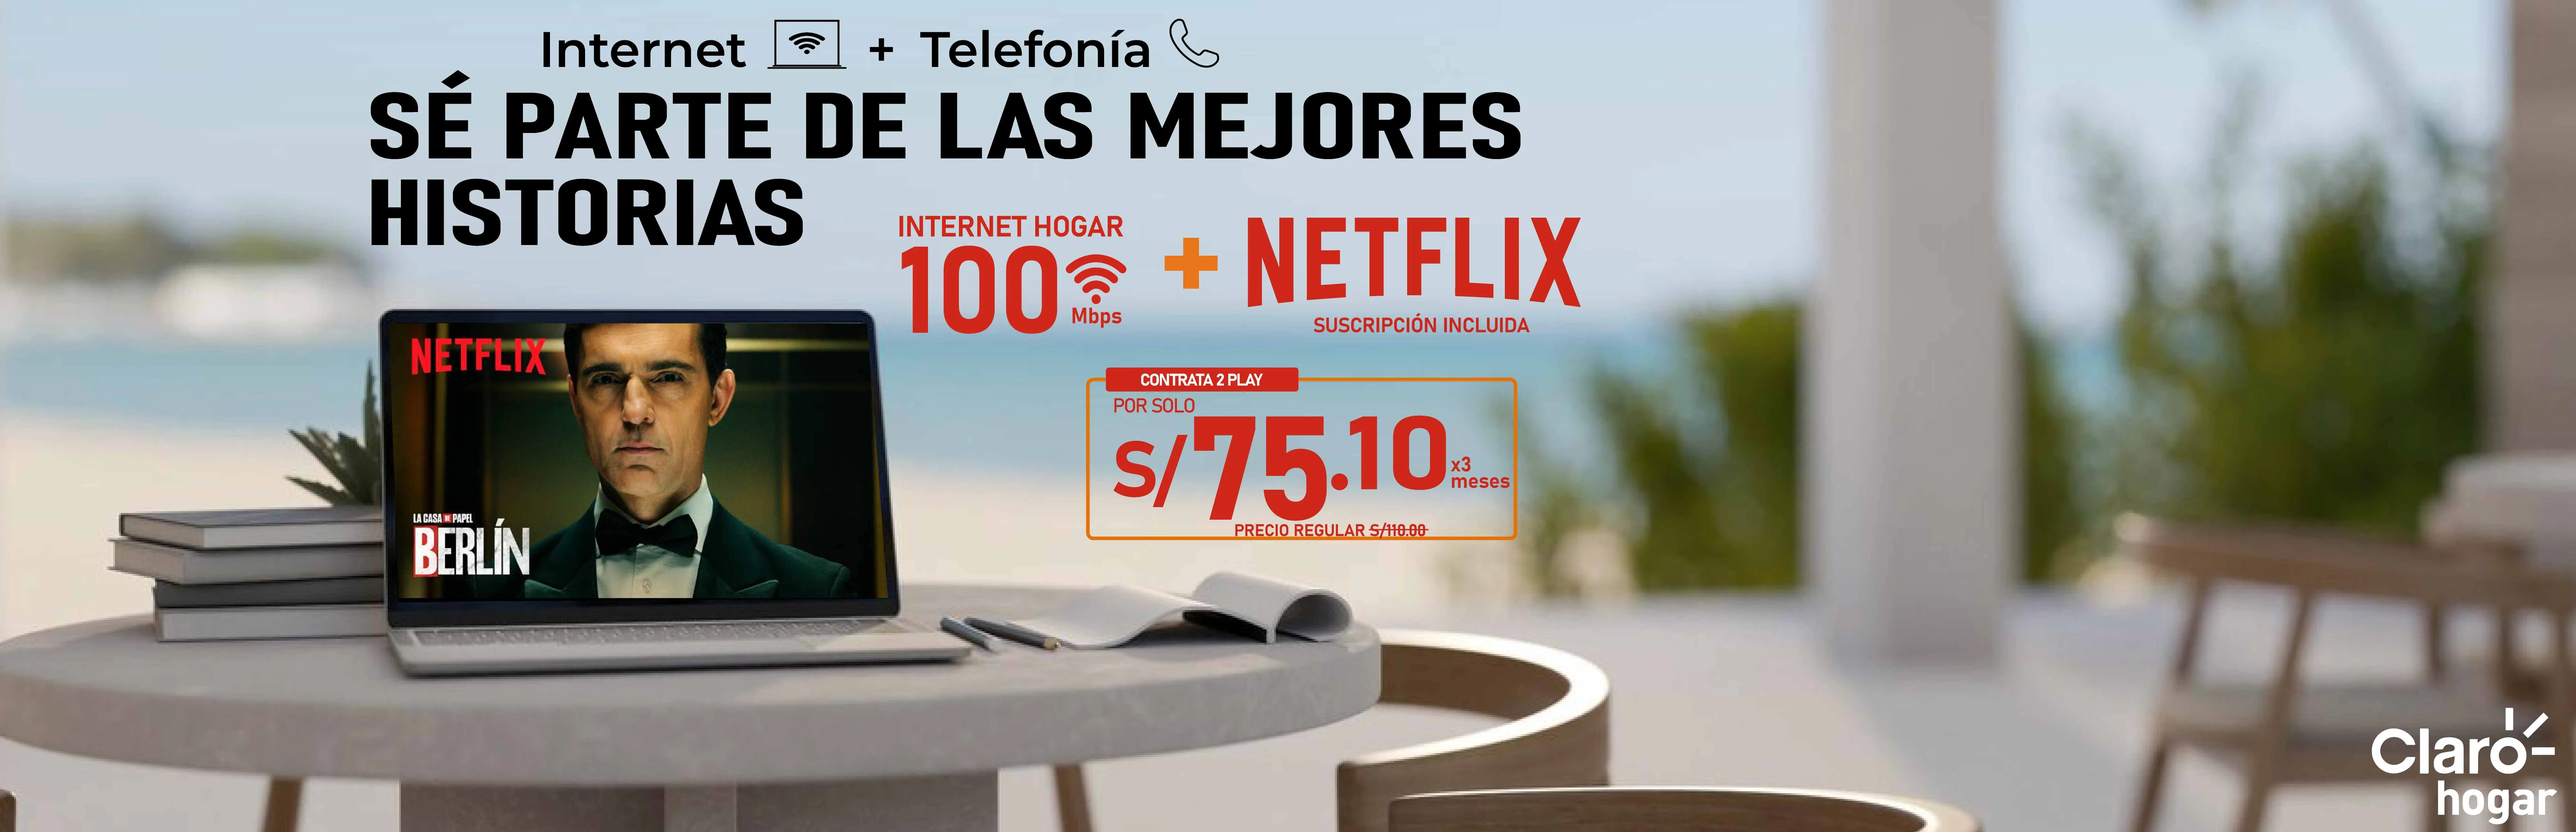
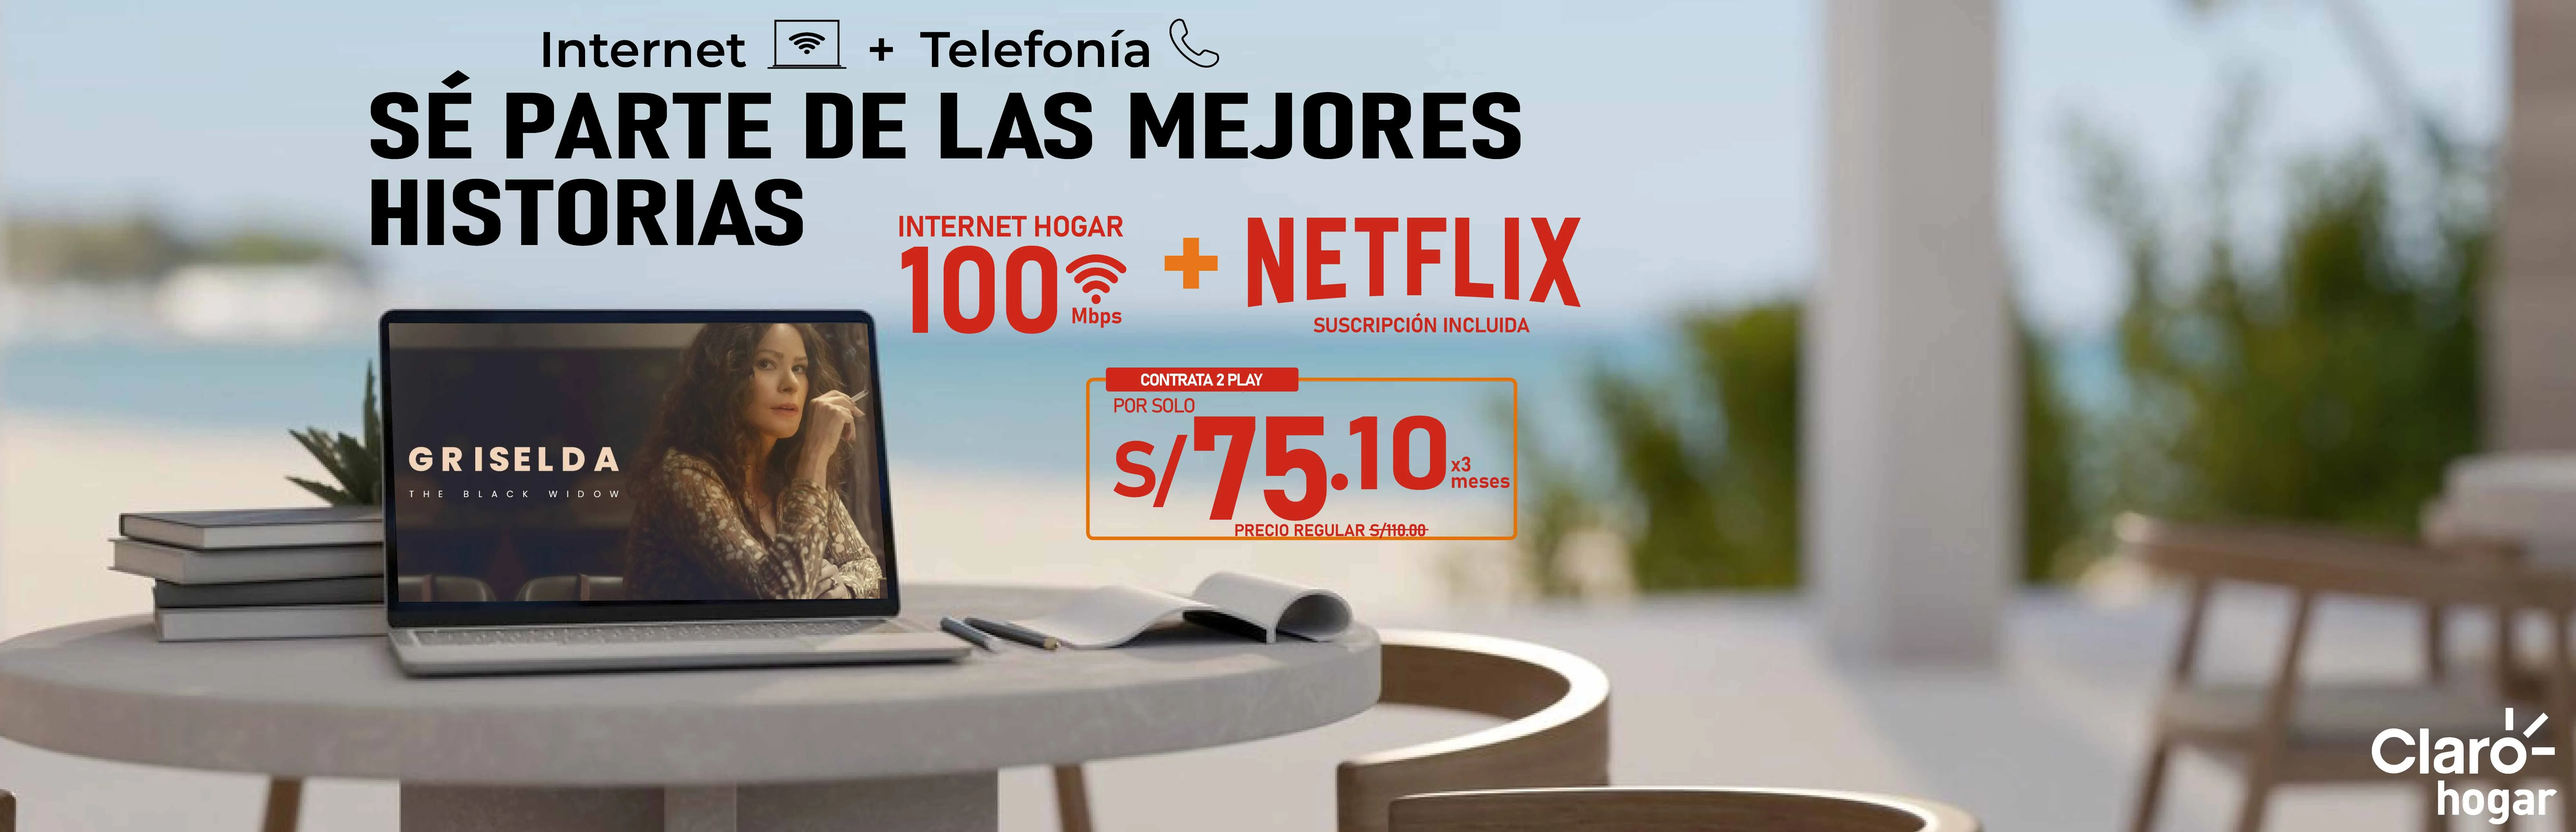
update web

Changed region(s): [[0.125, 0.3715, 0.3438, 0.743]]

diff --git a/src/components/PagesTsx/HomeFija.tsx b/src/components/PagesTsx/HomeFija.tsx
@@ -30,7 +30,7 @@ const OPTIONS: EmblaOptionsType = {
   slidesToScroll: 'auto',
   containScroll: 'trimSnaps'
 };
-const SLIDE_COUNT = 6;
+const SLIDE_COUNT = 7;
 const SLIDES: number[] = Array.from(Array(SLIDE_COUNT).keys());
 const STYLES_MOBILE: CSSProperties = {};
 const STYLES_DESKTOP: CSSProperties = {};
@@ -41,6 +41,7 @@ const imagesMobile = [
   `${BannerMobile5.src}`,
   `${BannerMobile6.src}`,
   `${BannerMobile2.src}`,
+  `${BannerMobile9.src}`,
   `${BannerMobile10.src}`,
 ];
 
@@ -50,6 +51,7 @@ const imagesDesktop= [
   `${BannerDesktop5.src}`,
   `${BannerDesktop6.src}`,
   `${BannerDesktop2.src}`,
+  `${BannerDesktop9.src}`,
   `${BannerDesktop10.src}`,
 ];
 
@@ -125,7 +127,7 @@ const ItemsPlanes: ItemsArray = [
         plan: '',
         classNamePlan: 'text-base',
         extraPlan: <div className="flex flex-col items-center justify-center">
-          <span className="text-[#ee122c] text-xl font-bold uppercase">1play 400 Mbps</span>
+          <span className="text-[#ee122c] text-3xl font-bold uppercase">1play 400 Mbps</span>
         </div>,
         data: [
           {
@@ -149,7 +151,7 @@ const ItemsPlanes: ItemsArray = [
         plan: '',
         classNamePlan: 'text-base',
         extraPlan: <div className="flex flex-col items-center justify-center">
-          <span className="text-[#ee122c] text-xl font-bold uppercase">1play 600 Mbps</span>
+          <span className="text-[#ee122c] text-3xl font-bold uppercase">1play 600 Mbps</span>
         </div>,
         data: [
           {
@@ -173,7 +175,7 @@ const ItemsPlanes: ItemsArray = [
         plan: '',
         classNamePlan: 'text-xl',
         extraPlan: <div className="flex flex-col items-center justify-center">
-          <span className="text-[#ee122c] text-xl font-bold uppercase">1play 1000 Mbps</span>
+          <span className="text-[#ee122c] text-3xl font-bold uppercase">1play 1000 Mbps</span>
         </div>,
         data: [
           {
@@ -193,7 +195,7 @@ const ItemsPlanes: ItemsArray = [
         plan: '',
         classNamePlan: 'text-xl',
         extraPlan: <div className="flex flex-col items-center justify-center">
-          <span className="text-[#ee122c] text-xl font-bold uppercase">1play 1500 Mbps</span>
+          <span className="text-[#ee122c] text-3xl font-bold uppercase">1play 1500 Mbps</span>
         </div>,
         data: [
           {
@@ -234,7 +236,7 @@ const ItemsPlanes: ItemsArray = [
             strong: '300Mbps'
           },
           {
-            description: 'Llamadas Ilimitadas a Teléfonos Fijos y Móviles de Claro + 100 min nivel nacional.',
+            description: 'MINUTOS ILIMITADOS a fijos y móviles de Claro Perú + 1000 MINUTOS para llamar a teléfonos fijos y móviles de otros operadores a nivel nacional.',
           },
         ]
       },
@@ -262,7 +264,7 @@ const ItemsPlanes: ItemsArray = [
             strong: '500Mbps'
           },
           {
-            description: 'Llamadas Ilimitadas a Teléfonos Fijos y Móviles de Claro + 100 min nivel nacional.',
+            description: 'MINUTOS ILIMITADOS a fijos y móviles de Claro Perú + 1000 MINUTOS para llamar a teléfonos fijos y móviles de otros operadores a nivel nacional.',
           },
         ]
       },
@@ -291,7 +293,7 @@ const ItemsPlanes: ItemsArray = [
             strong: '800Mbps'
           },
           {
-            description: 'Llamadas Ilimitadas a Teléfonos Fijos y Móviles de Claro + 100 min nivel nacional.',
+            description: 'MINUTOS ILIMITADOS a fijos y móviles de Claro Perú + 1000 MINUTOS para llamar a teléfonos fijos y móviles de otros operadores a nivel nacional.',
           },
         ]
       },
@@ -319,7 +321,7 @@ const ItemsPlanes: ItemsArray = [
             strong: '1000Mbps'
           },
           {
-            description: 'Llamadas Ilimitadas a Teléfonos Fijos y Móviles de Claro + 100 min nivel nacional.',
+            description: 'MINUTOS ILIMITADOS a fijos y móviles de Claro Perú + 1000 MINUTOS para llamar a teléfonos fijos y móviles de otros operadores a nivel nacional.',
           },
         ]
       },
@@ -343,7 +345,7 @@ const ItemsPlanes: ItemsArray = [
             strong: '1000Mbps'
           },
           {
-            description: 'Llamadas Ilimitadas a Teléfonos Fijos y Móviles de Claro + 100 min nivel nacional.',
+            description: 'MINUTOS ILIMITADOS a fijos y móviles de Claro Perú + 1000 MINUTOS para llamar a teléfonos fijos y móviles de otros operadores a nivel nacional.',
           },
         ]
       },
@@ -367,7 +369,7 @@ const ItemsPlanes: ItemsArray = [
             strong: '1500Mbps'
           },
           {
-            description: 'Llamadas Ilimitadas a Teléfonos Fijos y Móviles de Claro + 100 min nivel nacional.',
+            description: 'MINUTOS ILIMITADOS a fijos y móviles de Claro Perú + 1000 MINUTOS para llamar a teléfonos fijos y móviles de otros operadores a nivel nacional.',
           },
         ]
       },
@@ -575,7 +577,7 @@ const ItemsPlanes: ItemsArray = [
             description: 'Incluye Claro TV Avanzado con 111 canales en HD.',
           },
           {
-            description: 'Llamadas Ilimitadas a Teléfonos Fijos y Móviles de Claro + 100 min nivel nacional.',
+            description: 'MINUTOS ILIMITADOS a fijos y móviles de Claro Perú + 1000 MINUTOS para llamar a teléfonos fijos y móviles de otros operadores a nivel nacional.',
           },
         ]
       },
@@ -605,7 +607,7 @@ const ItemsPlanes: ItemsArray = [
             description: 'Incluye Claro TV Avanzado con 111 canales en HD.',
           },
           {
-            description: 'Llamadas Ilimitadas a Teléfonos Fijos y Móviles de Claro + 100 min nivel nacional.',
+            description: 'MINUTOS ILIMITADOS a fijos y móviles de Claro Perú + 1000 MINUTOS para llamar a teléfonos fijos y móviles de otros operadores a nivel nacional',
           },
         ]
       },
@@ -635,7 +637,7 @@ const ItemsPlanes: ItemsArray = [
             description: 'Incluye Claro TV Avanzado con 111 canales en HD.',
           },
           {
-            description: 'Llamadas Ilimitadas a Teléfonos Fijos y Móviles de Claro + 100 min nivel nacional.',
+            description: 'MINUTOS ILIMITADOS a fijos y móviles de Claro Perú + 1000 MINUTOS para llamar a teléfonos fijos y móviles de otros operadores a nivel nacional.',
           },
         ]
       },
@@ -666,7 +668,7 @@ const ItemsPlanes: ItemsArray = [
             description: 'Incluye Claro TV Avanzado con 111 canales en HD.',
           },
           {
-            description: 'Llamadas Ilimitadas a Teléfonos Fijos y Móviles de Claro + 100 min nivel nacional.',
+            description: 'MINUTOS ILIMITADOS a fijos y móviles de Claro Perú + 1000 MINUTOS para llamar a teléfonos fijos y móviles de otros operadores a nivel nacional.',
           },
         ]
       },
@@ -692,7 +694,7 @@ const ItemsPlanes: ItemsArray = [
             description: 'Incluye Claro TV Avanzado con 111 canales en HD.',
           },
           {
-            description: 'Llamadas Ilimitadas a Teléfonos Fijos y Móviles de Claro + 100 min nivel nacional.',
+            description: 'MINUTOS ILIMITADOS a fijos y móviles de Claro Perú + 1000 MINUTOS para llamar a teléfonos fijos y móviles de otros operadores a nivel nacional.',
           },
         ]
       },
@@ -705,7 +707,6 @@ const ItemsPlanes: ItemsArray = [
         dscto: '',
         promo: 'Precio Regular',
         price: '265',
-        regular: 'Precio Regular S/484',
         plan: '',
         classNamePlan: 'text-xl',
         extraPlan: <div className="flex flex-col items-center justify-center">
@@ -720,7 +721,7 @@ const ItemsPlanes: ItemsArray = [
             description: 'Incluye Claro TV Avanzado con 111 canales en HD.',
           },
           {
-            description: 'Llamadas Ilimitadas a Teléfonos Fijos y Móviles de Claro + 100 min nivel nacional.',
+            description: 'MINUTOS ILIMITADOS a fijos y móviles de Claro Perú + 1000 MINUTOS para llamar a teléfonos fijos y móviles de otros operadores a nivel nacional',
           },
         ]
       },

diff --git a/src/components/Form/Form.tsx b/src/components/Form/Form.tsx
@@ -1,6 +1,6 @@
 import axios from "axios";
 import type { FormProps } from "../../interfaces/Form.props";
-import  { type ChangeEvent, type FC, useState } from "react";
+import  { type ChangeEvent, type FC, useState, useEffect } from "react";
 const Form: FC<FormProps> = ({
   className,
   textLabel,
@@ -20,7 +20,17 @@ const Form: FC<FormProps> = ({
   const [inputState, setInputState] = useState<string>('');
   const [TSource] = useState(params.get('T-source'));
   const [Gclid] = useState(params.get('gclid'));
+  const [actveUrl,setActiveUrl]=useState<boolean>(false)
+  const [url,setUrl]=useState<string>('');
+  const [param, setParam] = useState<string>('');
 
+  useEffect(() => {
+      if (TSource) {
+        setParam(`?T-source=${ TSource }`);
+      } else {
+        setParam('');
+      }
+    },[TSource]);
 
   const changeNumber = (e: ChangeEvent<HTMLInputElement>) => {
     const value = e.target.value;
@@ -53,6 +63,13 @@ const Form: FC<FormProps> = ({
     };
   };
 
+  useEffect(() => {
+      if(pathname.includes('planes-moviles')){
+          setUrl('/planes-moviles')
+      }else{
+          setUrl('')
+      }
+  }, [url])
 
   const sendNumber = (e: any) => {
     e.preventDefault();
@@ -117,6 +134,11 @@ const Form: FC<FormProps> = ({
         data.append("username", "dacar");
         data.append("password", "StzsK46vs0a4nCJU55wD");
         service = "PeruMovilCallme"
+      }else if(TSource === 'rrss'){
+        data.append("service", "PeruHfcRsCallme");
+        data.append("username", "dacar");
+        data.append("password", "StzsK46vs0a4nCJU55wD");
+        service = "PeruHfcRsCallme";
       } else if(pathname.includes('planes-moviles')){
         data.append("service", "PeruMovilCallme");
         data.append("username", "dacar");
@@ -165,6 +187,13 @@ const Form: FC<FormProps> = ({
       console.log(service);
     });
   }
+  const handleRedirect = () => {
+    if(TSource === 'rrss'){
+    window.location.href = `/gracias/${ param }`;
+    }else{
+      null
+    }
+  };
 
   return (
     <form
@@ -192,6 +221,7 @@ const Form: FC<FormProps> = ({
       >*Ingrese su número sin anteponer el (51)</label>
       <div className="flex items-center justify-center">
         <button
+          onClick={handleRedirect}
           className={`relative font-extrabold text-lg py-2 px-6 uppercase flex items-center justify-center gap-2 ${ length === 9 ? 'opacity-100' : 'opacity-50' } ${ loading ? 'opacity-50' : '' } ${ classNameButton }`}
           type='submit'
           disabled={length === 9? false : true }

diff --git a/src/components/PagesTsx/Reload.tsx b/src/components/PagesTsx/Reload.tsx
@@ -1,0 +1,16 @@
+import { useEffect, useState } from "react";
+
+
+const Reload = () => {
+
+
+  return (
+    <div className='w-full flex justify-center flex-col items-center gap-[50px] h-[500px]'>
+        <div className='mt-[20px]'><img className='w-[150px]' src="https://www.clarointernet.pe/wp-content/uploads/2023/11/loading-claro-gadytel.gif" alt="" /></div>
+        <span className='text-[23px] font-semibold'>Recibimos Tu Solicitud</span>
+        <span>Uno de nuestros asesores de ventas, se pondrá en contacto con usted en breves minutos.</span>
+    </div>
+  )
+}
+
+export default Reload

diff --git a/src/components/Items/Plan.tsx b/src/components/Items/Plan.tsx
@@ -126,6 +126,13 @@ const Plan: FC<PlanProps> = ({
               num: '(01) 6805992'
             });
             break;
+
+            case 'rrss':
+              setNumber({
+                tel: '016806269',
+                num: '(01) 6806269'
+              });
+              break;
         }
       } else {
         if (pathname.includes('planes-moviles')){

diff --git a/src/components/Footer/Footer.tsx b/src/components/Footer/Footer.tsx
@@ -154,6 +154,13 @@ export const Footer = () => {
               num: '(01) 6805992'
             });
             break;
+
+          case 'rrss':
+            setNumber({
+              tel: '016806269',
+              num: '(01) 6806269'
+            });
+            break;
         }
       } else {
         if (pathname.includes('planes-moviles')) {

diff --git a/src/components/Header/Header.tsx b/src/components/Header/Header.tsx
@@ -113,6 +113,13 @@ export const Header = () => {
               num: '(01) 6805992'
             });
             break;
+
+          case 'rrss':
+            setNumber({
+              tel: '016806269',
+              num: '(01) 6806269'
+            });
+            break;
         }
       } else {
         if (pathname.includes('planes-moviles')){
